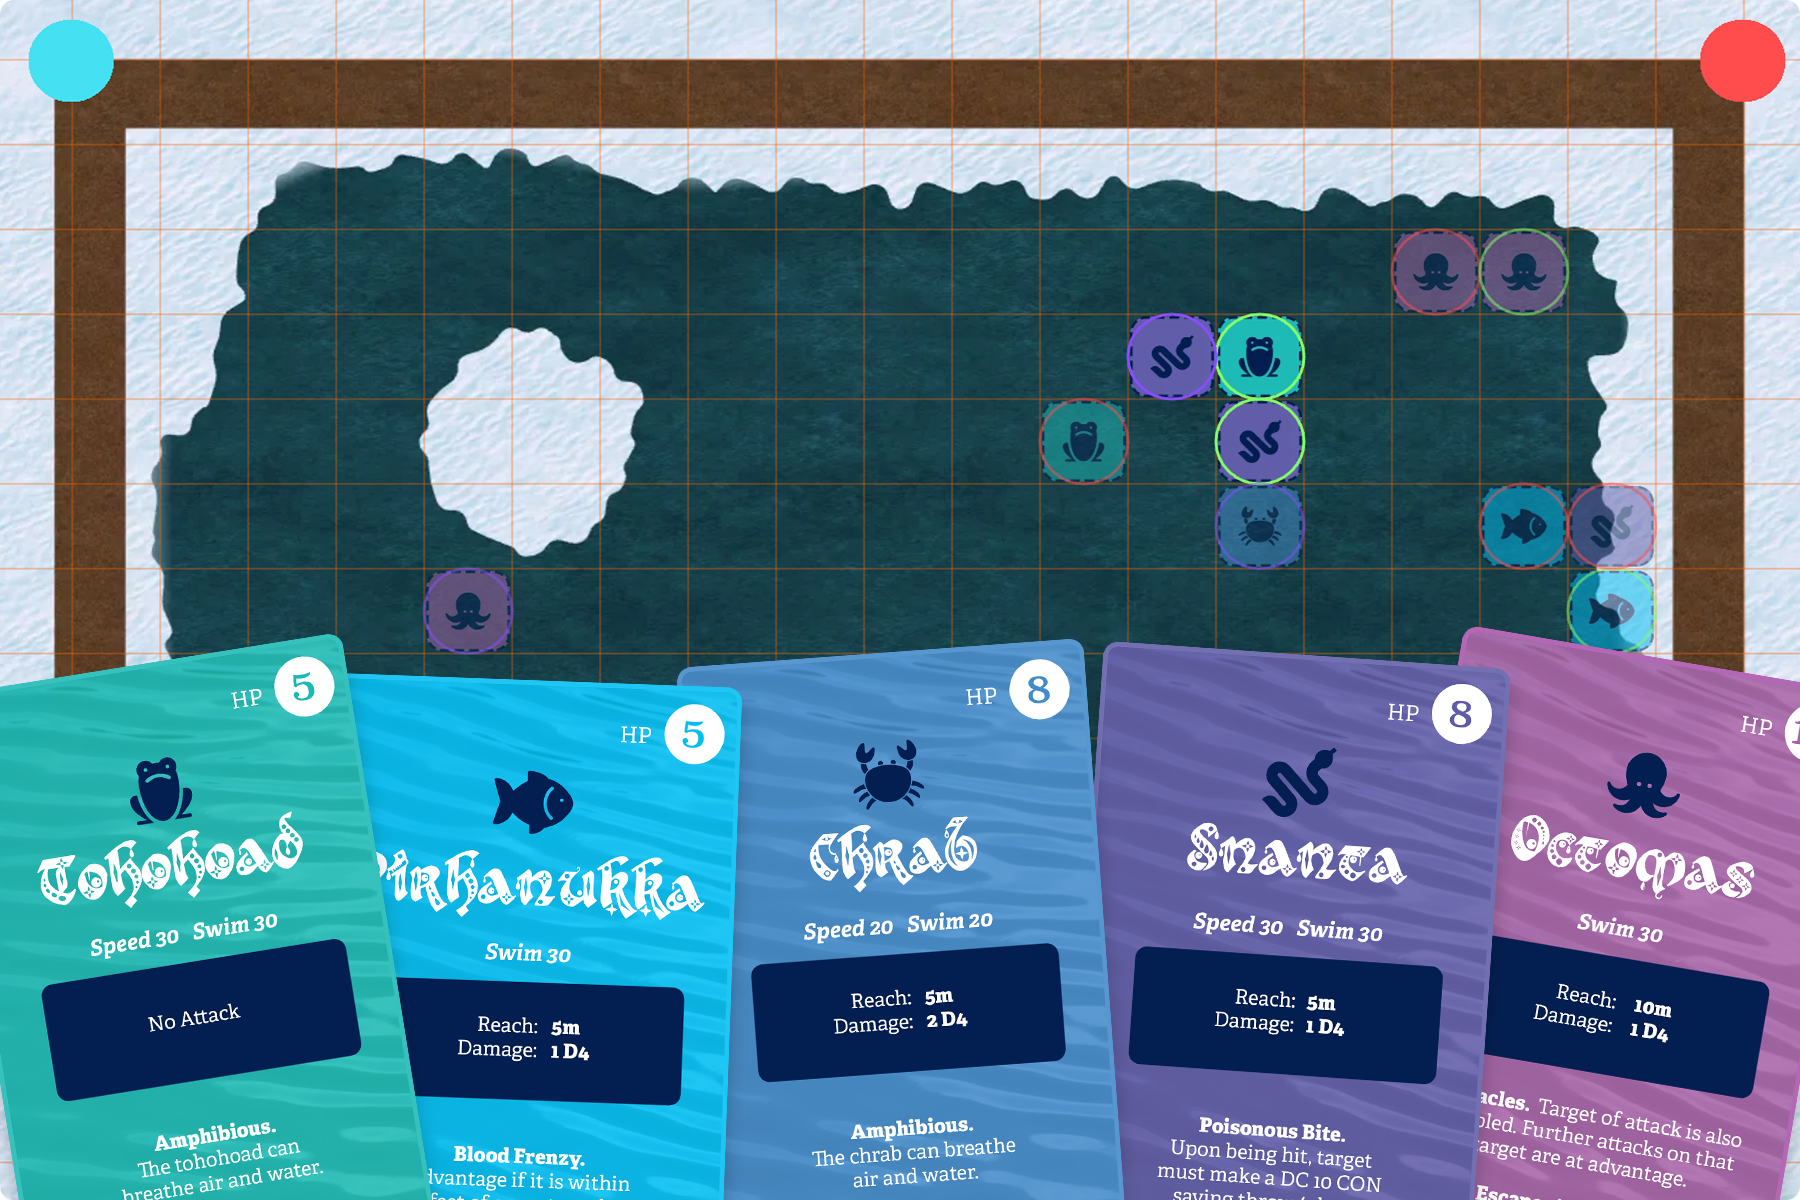
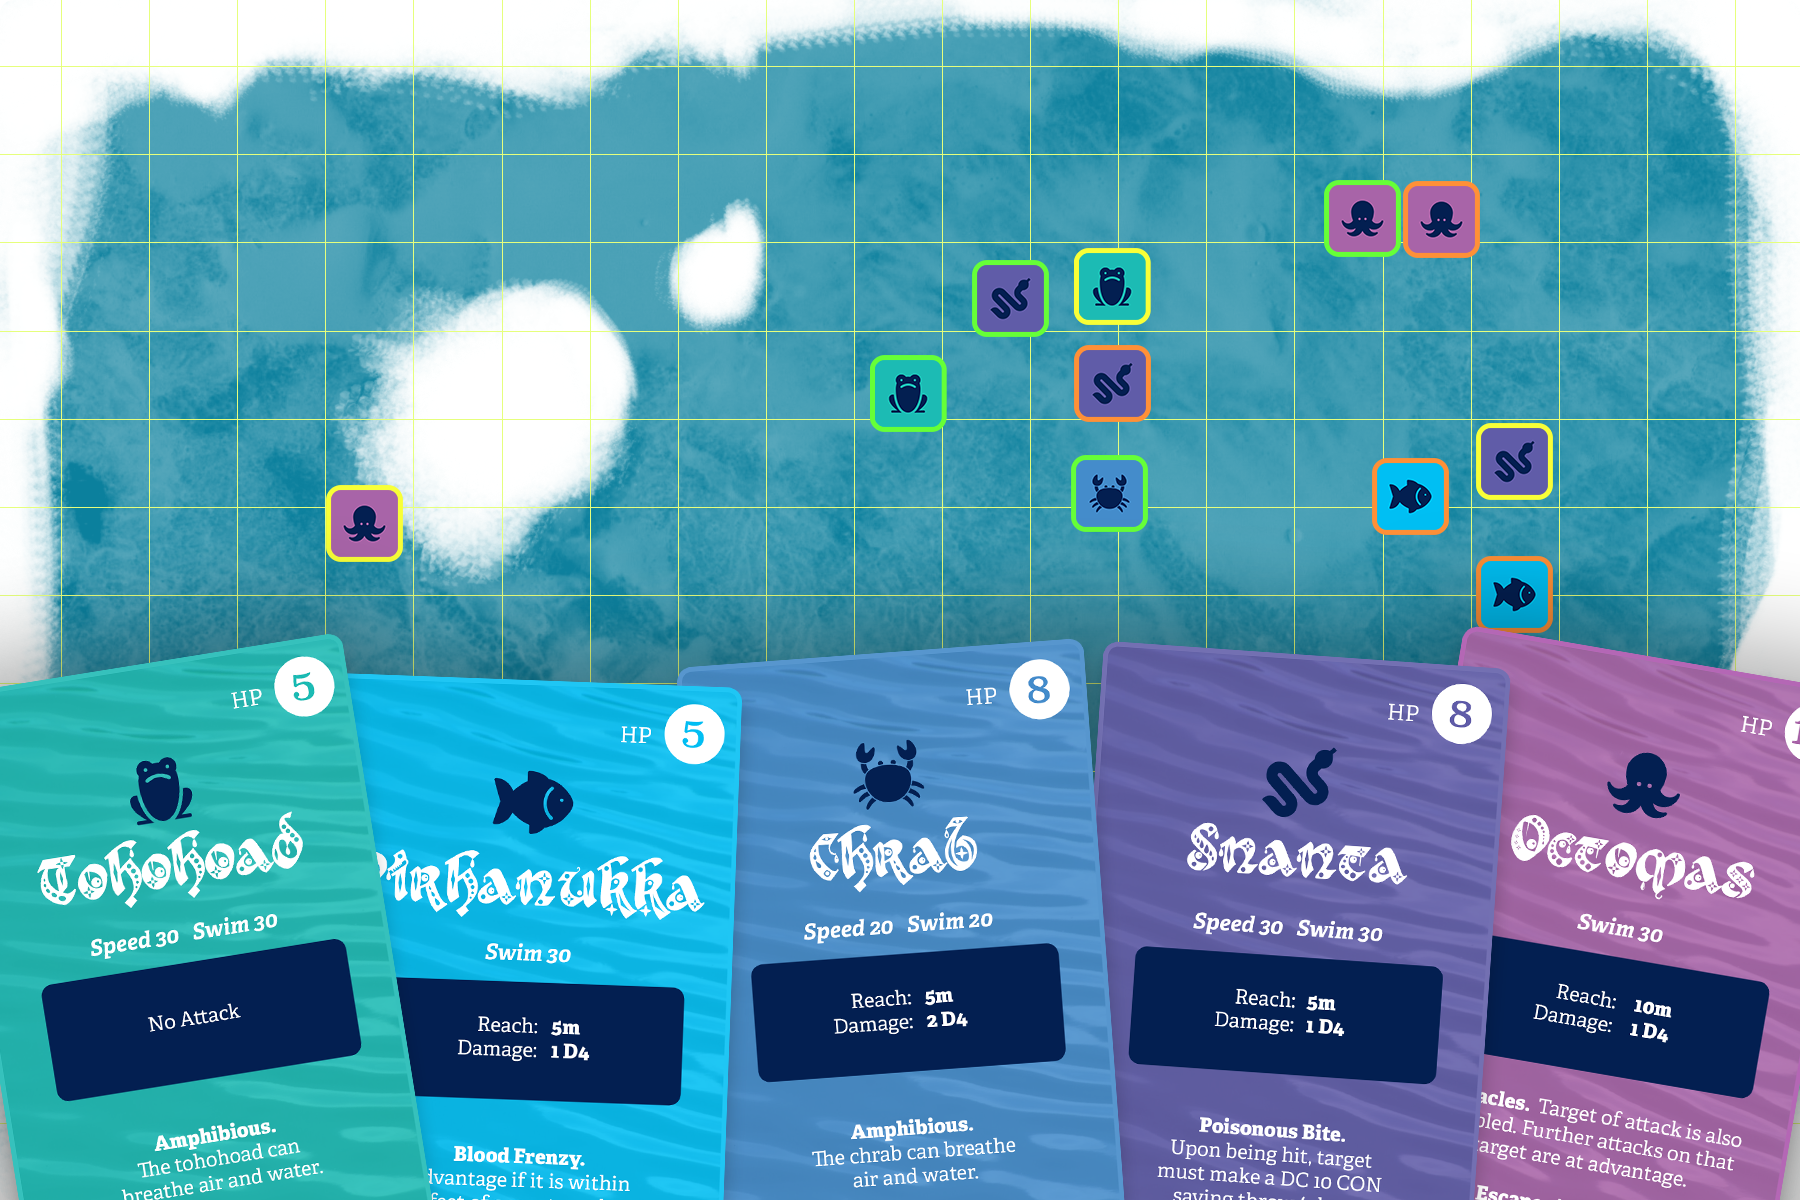
Update hero and site images

diff --git a/assets/styles.css b/assets/styles.css
@@ -297,15 +297,9 @@ h1, h2, h3 {
     font-family: 'General Sans', sans-serif;
     font-size: 1.25rem;
     font-weight: 500;
-    color: var(--color-primary);
+    color: var(--color-text);
     text-decoration: none;
     transition: color 0.2s ease;
-  }
-
-  .site-nav__brand:hover .site-title,
-  .site-nav__brand:hover .logo {
-    color: var(--color-secondary);
-    text-decoration: none;
   }
 
   /* Nav links */
@@ -606,12 +600,12 @@ hr {
 
 /* Hero section (home) */
 .hero {
-    padding: 4rem 0rem; /* Top/bottom increased from 2rem to 4rem */
+    padding: 2rem 0rem; /* Top/bottom increased from 2rem to 4rem */
   }
 
   .hero__grid {
     display: grid;
-    grid-template-columns: 2fr 7fr;
+    grid-template-columns: 3fr 1fr;
     align-items: top;
     gap: 2.5rem;
     margin: 0 auto;
@@ -619,7 +613,7 @@ hr {
   
   .hero__image {
     position: relative;
-    max-width: 180px;
+    max-width: 800px;
     width: 100%;
     margin: 0.5rem 4rem 0 0;
   }
@@ -652,10 +646,11 @@ hr {
     .hero__grid {
       grid-template-columns: 1fr;
       text-align: center;
+      gap: 0;
     }
   
     .hero__image {
-      max-width: 140px;
+      max-width: 100%;
       margin: 0 auto;
     }
   
@@ -671,8 +666,8 @@ hr {
   }
 
 .hero-paragraph {
-    font-size: clamp(1.1rem, 4vw, 1.4rem);
-    line-height: 1.6;
+    font-size: clamp(1rem, 3vw, 1.2rem);
+    line-height: 1.4;
     color: var(--color-text);
     margin-top: 2rem;
   }

diff --git a/projects/rule-search-tool-for-nimble-ttrpg.md b/projects/rule-search-tool-for-nimble-ttrpg.md
@@ -1,6 +1,6 @@
 ---
 title: Rule Reference Tool for Nimble TTRPG
-description: A lightweight, self-hosted AI tool for querying multiple Nimble rulebook PDFs, built with Python + Flask to make searching rules in-game easy and free.
+description: A lightweight, self-hosted tool for querying multiple Nimble rulebook PDFs, built with Python + Flask to make searching rules in-game easy and free.
 date: 2025-04-23
 layout: post.njk
 tags: [project, nimble, tool]
@@ -26,7 +26,7 @@ Poke through my build here, too, if you'd like: [Nimble Rules - GitHub](https://
 
 ## What I Set Out to Build
 
-So with my long-running online TTRPG group, we play using a game system that's pretty new called Nimble. Unlike other Table-Top Role Playing Games like Dungeons and Dragons, there aren't many tools or references made for this one. Since we are all learning the system together, I wanted an easy way to **look up specific rules from the Nimble rules PDFs during gameplay**—without constantly flipping through 100-page rulebooks or opening the different files and wondering which ones my answer would be in. I also wanted to make it lightweight, private for just my group's use, and **hostable for free**, without needing to train an expensive AI model or rely on external APIs.
+So with my long-running online TTRPG group, we play using a game system that's pretty new called Nimble. Unlike other tabletop roleplaying games like Dungeons and Dragons, there aren't many tools or references made for this one. Since we are all learning the system together, I wanted an easy way to **look up specific rules from the Nimble rules PDFs during gameplay**—without constantly flipping through 100-page rulebooks or opening the different files and wondering which ones my answer would be in. I also wanted to make it lightweight, private for just my group's use, and **hostable for free**, without needing to train an expensive AI model or rely on external APIs.
 
 
 ## Options I Explored (and Why I Didn’t Use Them)
@@ -39,7 +39,7 @@ So with my long-running online TTRPG group, we play using a game system that's p
 | LangChain         | Full retrieval pipeline       | Added too much complexity           |
 | ChatPDF / PDF.ai  | Fast for individuals          | Not private or customizable or free |
 
-I realized I didn't actually need natural language processing—**keyword and fuzzy matching was enough**. The goal wasn’t “conversational,” just **fast, accurate rule recall**. I might expand on this in the future, but as a starting tool, I wanted to simplify my goal here.
+I realized I didn't actually need natural language processing—**keyword and fuzzy matching was enough**. I just needed it to understand the data and provide **fast, accurate rule recall**. I might expand on this in the future, but as a starting tool, I wanted to simplify my goal here.
 
 
 ## Tools and Tech Used
@@ -71,7 +71,6 @@ I might like to update this project with features like:
 - A streamlined way to upload new PDF versions
 - A "clear search" option
 - A front-end that's actually designed
-- Obviously Nimble won't be happy to give their PDFs away for free via my search tool; I wonder if I can figure out a way to make it a searchable tool anyone beyond my group can use but not put their IP at risk?
 
 
 > Have you built something similar? How did you do it differently? Whether it's another PDF reference tool or just another tool for a TTRPG like Nimble, I'd be super curious to take a peek and learn what worked for you!
